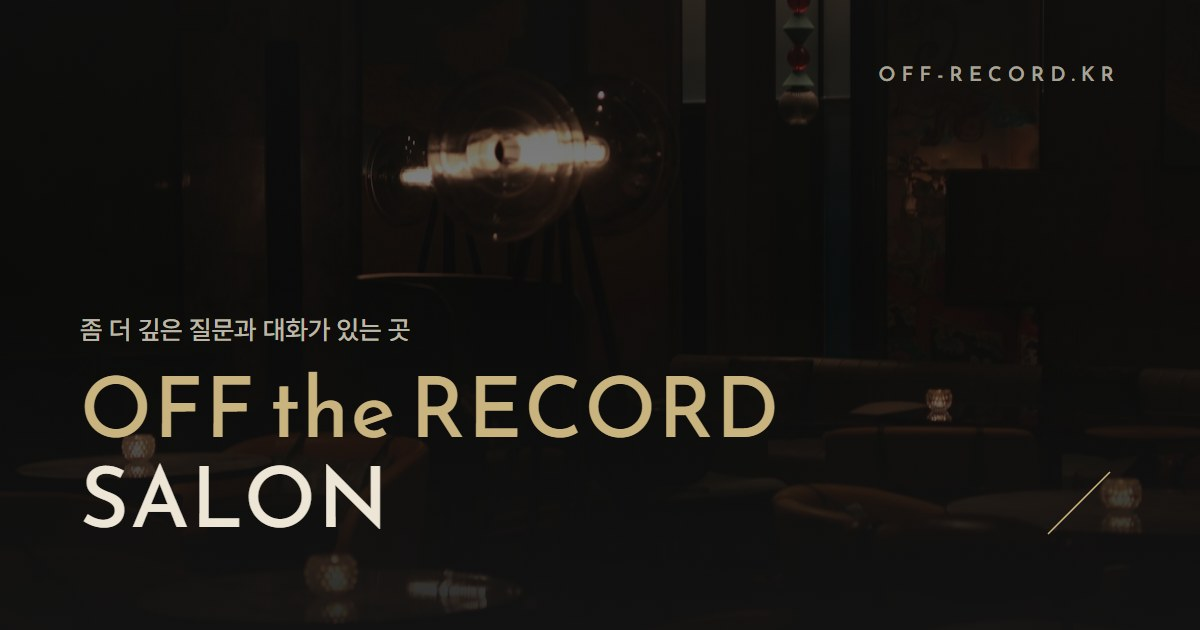
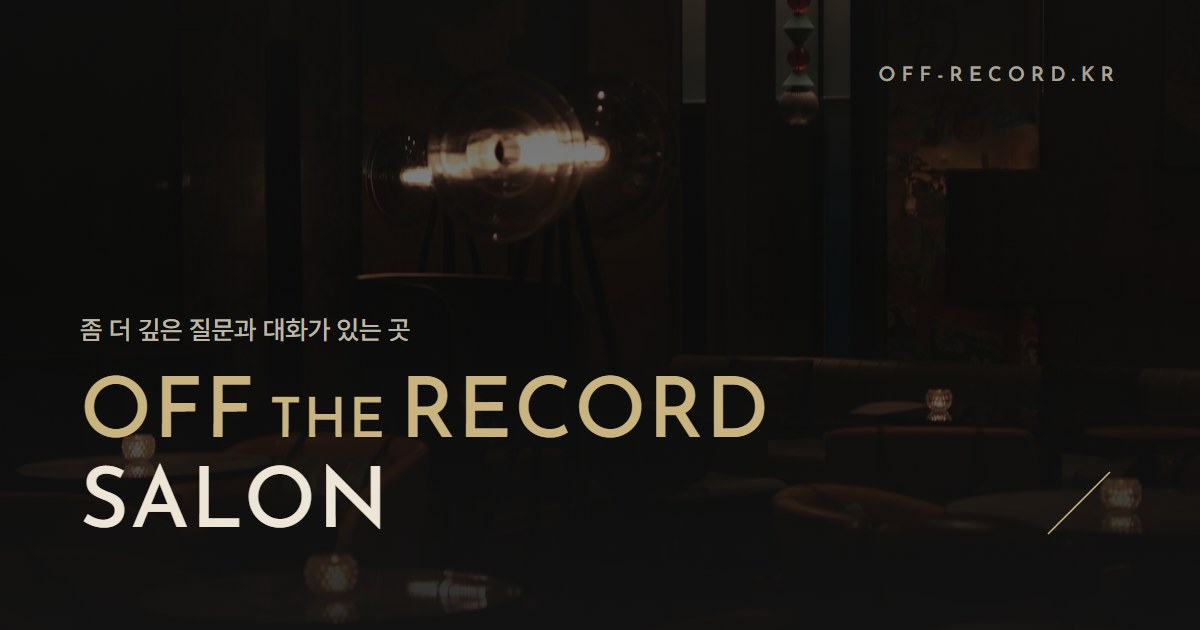
the → THE, 옆 단어의 2/3 크기

Changed region(s): [[0.2158, 0.573, 0.6475, 0.6937]]

diff --git a/index.html b/index.html
@@ -2,7 +2,7 @@
 <link rel="icon" href="/favicon.ico" sizes="any"><link rel="icon" type="image/png" href="/favicon.png"><link rel="apple-touch-icon" href="/apple-touch-icon.png">
 <title>오프레코드 살롱</title>
 <meta name="description" content="좀 더 깊은 질문과 대화가 있는 곳. 서로 다른 분야의 리더들이 질문을 꺼내고 경험을 나누는 프라이빗 리더십 살롱.">
-<meta property="og:type" content="website"><meta property="og:site_name" content="OFF the RECORD SALON"><meta property="og:url" content="https://off-record.kr/"><meta property="og:title" content="오프레코드 살롱"><meta name="twitter:title" content="오프레코드 살롱"><meta property="og:image" content="https://off-record.kr/og.jpg"><meta property="og:image:width" content="1200"><meta property="og:image:height" content="630"><meta name="twitter:card" content="summary_large_image"><meta name="twitter:image" content="https://off-record.kr/og.jpg"><meta property="og:description" content="좀 더 깊은 질문과 대화가 있는 곳">
+<meta property="og:type" content="website"><meta property="og:site_name" content="OFF THE RECORD SALON"><meta property="og:url" content="https://off-record.kr/"><meta property="og:title" content="오프레코드 살롱"><meta name="twitter:title" content="오프레코드 살롱"><meta property="og:image" content="https://off-record.kr/og.jpg"><meta property="og:image:width" content="1200"><meta property="og:image:height" content="630"><meta name="twitter:card" content="summary_large_image"><meta name="twitter:image" content="https://off-record.kr/og.jpg"><meta property="og:description" content="좀 더 깊은 질문과 대화가 있는 곳">
 <link href="https://fonts.googleapis.com/css2?family=Inter+Tight:ital,wght@0,300;0,400;0,500;0,600;0,700;1,400&family=Anton&family=Allura&family=Jost:wght@300;400&family=Josefin+Sans:wght@500;600&display=swap" rel="stylesheet">
 <link href="https://cdn.jsdelivr.net/gh/orioncactus/pretendard@v1.3.9/dist/web/static/pretendard.min.css" rel="stylesheet">
 <style>
@@ -525,7 +525,7 @@ body::after{display:none}
 @media(max-width:900px){.who-grid{grid-template-columns:repeat(2,1fr)}}
 @media(max-width:600px){.who-card{padding:1.25rem 1.1rem 1.4rem}.who-card b{font-size:1.7rem}}
 
-/* 표기: OFF the RECORD SALON (대소문자 그대로) */
+/* 표기: OFF THE RECORD SALON (대소문자 그대로) */
 .nav-logo-text,.hero-wordmark,.lg,.hprev-text b,.sub-h.brand{text-transform:none!important}
 
 
@@ -533,10 +533,13 @@ body::after{display:none}
 
 /* 로고 간격 (최종): 글자 .02em · 단어 -.18em */
 .hero-wordmark,.nav-logo-text,.sub-h.brand{letter-spacing:.02em!important;word-spacing:-.18em!important}
+
+/* THE: 옆 단어의 2/3 크기 */
+.the{font-size:.66em}
 </style></head><body>
 
 <nav class="nav" id="nav">
-  <a href="#home" class="nav-logo"><span class="nav-logo-text">OFF&nbsp;the&nbsp;RECORD SALON</span></a>
+  <a href="#home" class="nav-logo"><span class="nav-logo-text">OFF&nbsp;<span class="the">THE</span>&nbsp;RECORD SALON</span></a>
   <ul class="nav-links" id="navLinks">
     <li><a href="#about">About</a></li>
     <li><a href="#lineup">Line-up</a></li>
@@ -555,7 +558,7 @@ body::after{display:none}
   <div class="hero-media" id="heroMedia" aria-hidden="true"></div>
   <div class="hero-bottom">
     <p class="hero-sub">좀 더 깊은 질문과 대화가 있는 곳<small>오프레코드 살롱</small></p>
-    <h1 class="hero-wordmark"><span class="gold-txt">OFF&nbsp;the&nbsp;RECORD</span><br>SALON</h1>
+    <h1 class="hero-wordmark"><span class="gold-txt">OFF&nbsp;<span class="the">THE</span>&nbsp;RECORD</span><br>SALON</h1>
   </div>
 </section>
 
@@ -566,7 +569,7 @@ body::after{display:none}
     <h2 class="title">더 나은 곳으로 가기 위해,<span>우리는 묻고, 듣고, 나눕니다.</span></h2>
   </div>
   <div class="reveal">
-    <p class="about-lead">OFF&nbsp;the&nbsp;RECORD SALON은 서로 다른 분야에서 중요한 결정을 내리는 리더들이 한자리에 모여, 자신의 질문을 꺼내고 서로의 경험에서 새로운 관점을 얻는 프라이빗 리더십 살롱입니다.</p>
+    <p class="about-lead">OFF&nbsp;<span class="the">THE</span>&nbsp;RECORD SALON은 서로 다른 분야에서 중요한 결정을 내리는 리더들이 한자리에 모여, 자신의 질문을 꺼내고 서로의 경험에서 새로운 관점을 얻는 프라이빗 리더십 살롱입니다.</p>
     <p class="about-lead">공개적인 자리에서는 꺼내기 어려운 질문과 이야기가 있습니다. 우리는 기록되지 않는 진솔한 대화가 더 나은 선택과 더 넓은 시야로 이어진다고 믿습니다.</p>
   </div>
   <div class="about-items reveal">
@@ -601,7 +604,7 @@ body::after{display:none}
       <ul><li>연사가 준비한 이야기</li><li>청중은 일방적으로 청취</li><li>질문은 마지막 Q&amp;A에 일부</li></ul>
     </div>
     <div class="concept-card dark">
-      <div class="sub-h brand">OFF&nbsp;the&nbsp;RECORD SALON</div>
+      <div class="sub-h brand">OFF&nbsp;<span class="the">THE</span>&nbsp;RECORD SALON</div>
       <h3>질문에서 시작하는 대화</h3>
       <ul><li>참가자의 실제 고민과 질문을 사전에 수집</li><li>질문을 바탕으로 Host가 이야기를 준비</li><li>현장에서 Moderator와 참가자가 질문을 이어감</li></ul>
     </div>
@@ -713,7 +716,7 @@ body::after{display:none}
   <div class="eyebrow reveal">FAQ</div>
   <h2 class="title reveal">자주 묻는 질문</h2>
   <div class="faq-list reveal">
-    <div class="faq-item"><button type="button" class="faq-q" aria-expanded="false">'오프레코드'는 어떤 의미인가요?</button><div class="faq-a">오프레코드(OFF&nbsp;the&nbsp;RECORD)는 비공개 발언이라는 뜻입니다. Salon에서 오간 이야기는 외부에 기록하거나 공개하지 않습니다. Host와 참가자 모두 솔직하게 이야기할 수 있도록 하기 위한 원칙입니다.</div></div>
+    <div class="faq-item"><button type="button" class="faq-q" aria-expanded="false">'오프레코드'는 어떤 의미인가요?</button><div class="faq-a">오프레코드(OFF&nbsp;<span class="the">THE</span>&nbsp;RECORD)는 비공개 발언이라는 뜻입니다. Salon에서 오간 이야기는 외부에 기록하거나 공개하지 않습니다. Host와 참가자 모두 솔직하게 이야기할 수 있도록 하기 위한 원칙입니다.</div></div>
     <div class="faq-item"><button type="button" class="faq-q" aria-expanded="false">누구나 참가할 수 있나요?</button><div class="faq-a">초대를 받은 분만 참가할 수 있습니다. 회차당 18명 내외의 소수 정원으로 운영됩니다.</div></div>
     <div class="faq-item"><button type="button" class="faq-q" aria-expanded="false">사전 질문은 꼭 써야 하나요?</button><div class="faq-a">네. 오프레코드 살롱은 참가자의 질문에서 시작하는 살롱입니다. 사전 질문은 Host의 이야기와 당일 대화 구성에 반영됩니다.</div></div>
     <div class="faq-item"><button type="button" class="faq-q" aria-expanded="false">1회권은 없나요?</button><div class="faq-a">Salon 01 모집은 네 번을 모두 함께하는 Full Cycle Pass(한정 수량)로 진행합니다. 1회권은 Full Cycle 마감 후 잔여석에 한해 회차별로 별도 오픈됩니다.</div></div>
@@ -721,11 +724,11 @@ body::after{display:none}
 </div></section>
 
 <section class="closing">
-  <h2 class="reveal">깊은 질의와 현장의 경험이 만나는 자리,<br><span>OFF&nbsp;the&nbsp;RECORD SALON</span>에서 만나요.</h2>
+  <h2 class="reveal">깊은 질의와 현장의 경험이 만나는 자리,<br><span>OFF&nbsp;<span class="the">THE</span>&nbsp;RECORD SALON</span>에서 만나요.</h2>
   <p class="reveal">SEE YOU AT SALON 01 · NOVEMBER 2026</p>
   <a href="#apply" class="btn light reveal">참가 신청하기 →</a>
 </section>
-<footer><div class="ft"><p>© 2026 OFF&nbsp;the&nbsp;RECORD SALON · Hosted by 리피움</p><a href="admin.html" class="admin-btn" title="관리자">관리</a></div></footer>
+<footer><div class="ft"><p>© 2026 OFF&nbsp;<span class="the">THE</span>&nbsp;RECORD SALON · Hosted by 리피움</p><a href="admin.html" class="admin-btn" title="관리자">관리</a></div></footer>
 
 <div class="sticky-cta" id="stickyCta"><div class="in"><div class="txt"><small>SALON 01 · NOV 2026</small><span id="stickyTxt">초대받은 분만 신청할 수 있습니다</span></div><a href="#apply" class="btn ac">참가 신청 →</a></div></div>
 <div class="lp" id="lp"><svg width="80" height="80" viewBox="0 0 80 80"><circle cx="40" cy="40" r="34" stroke="rgba(255,255,255,.2)"/><circle id="lpRing" cx="40" cy="40" r="34" stroke="#fff" stroke-dasharray="213.6" stroke-dashoffset="213.6" transform="rotate(-90 40 40)"/></svg></div>

diff --git a/admin.html b/admin.html
@@ -1,9 +1,9 @@
 <!DOCTYPE html><html lang="ko"><head><meta charset="UTF-8"><meta name="viewport" content="width=device-width,initial-scale=1.0">
 <link rel="icon" href="/favicon.ico" sizes="any"><link rel="icon" type="image/png" href="/favicon.png"><link rel="apple-touch-icon" href="/apple-touch-icon.png">
-<title>관리자 — OFF the RECORD SALON</title>
+<title>관리자 — OFF THE RECORD SALON</title>
 <meta name="robots" content="noindex">
 <meta name="description" content="좀 더 깊은 질문과 대화가 있는 곳. 서로 다른 분야의 리더들이 질문을 꺼내고 경험을 나누는 프라이빗 리더십 살롱.">
-<meta property="og:title" content="OFF the RECORD SALON"><meta property="og:description" content="좀 더 깊은 질문과 대화가 있는 곳">
+<meta property="og:title" content="OFF THE RECORD SALON"><meta property="og:description" content="좀 더 깊은 질문과 대화가 있는 곳">
 <link href="https://fonts.googleapis.com/css2?family=Inter+Tight:ital,wght@0,300;0,400;0,500;0,600;0,700;1,400&family=Anton&family=Allura&family=Jost:wght@300;400&family=Josefin+Sans:wght@500;600&display=swap" rel="stylesheet">
 <link href="https://cdn.jsdelivr.net/gh/orioncactus/pretendard@v1.3.9/dist/web/static/pretendard.min.css" rel="stylesheet">
 <style>
@@ -368,7 +368,7 @@ footer{background:var(--dk)}footer p{color:rgba(237,230,214,.35)}
 .hprev-text b{font-family:'Josefin Sans',sans-serif!important;font-weight:500!important}
 .lg{white-space:nowrap}
 
-/* 표기: OFF the RECORD SALON (대소문자 그대로) */
+/* 표기: OFF THE RECORD SALON (대소문자 그대로) */
 .nav-logo-text,.hero-wordmark,.lg,.hprev-text b,.sub-h.brand{text-transform:none!important}
 
 
@@ -376,14 +376,17 @@ footer{background:var(--dk)}footer p{color:rgba(237,230,214,.35)}
 
 /* 로고 간격 (최종): 글자 .02em · 단어 -.18em */
 .lg,.hprev-text b{letter-spacing:.02em!important;word-spacing:-.18em!important}
+
+/* THE: 옆 단어의 2/3 크기 */
+.the{font-size:.66em}
 </style></head><body>
 <div class="gate" id="gate"><div class="gate-box">
-  <h2><span class="lg">OFF&nbsp;the&nbsp;RECORD SALON</span><small>ADMIN</small></h2>
+  <h2><span class="lg">OFF&nbsp;<span class="the">THE</span>&nbsp;RECORD SALON</span><small>ADMIN</small></h2>
   <input type="password" id="gatePw" placeholder="비밀번호" onkeydown="if(event.key==='Enter')login()">
   <button class="btn" style="width:100%" onclick="login()">입장하기</button>
   <p id="gateMsg"></p>
 </div></div>
-<header class="admin-bar"><span><b class="lg">OFF&nbsp;the&nbsp;RECORD SALON</b><small>ADMIN</small></span>
+<header class="admin-bar"><span><b class="lg">OFF&nbsp;<span class="the">THE</span>&nbsp;RECORD SALON</b><small>ADMIN</small></span>
 <nav class="tabs" id="tabs">
   <button data-tab="notes" class="on">회의록</button><button data-tab="apps">신청</button><button data-tab="site">홈페이지</button><button data-tab="schedule">일정</button><button data-tab="speakers">연사</button><button data-tab="fees">사례비</button><button data-tab="actions">Next Action</button><button data-tab="decisions">결정 기록</button><button data-tab="plan">기획 자료</button>
 </nav><a href="index.html">← 사이트로</a></header>
@@ -416,7 +419,7 @@ footer{background:var(--dk)}footer p{color:rgba(237,230,214,.35)}
     </div>
     <div class="site-card">
       <h3>미리보기</h3>
-      <div class="hprev" id="hPrev"><div class="hprev-media" id="hPrevMedia"></div><div class="hprev-text"><small>좀 더 깊은 질문과 대화가 있는 곳</small><b>OFF&nbsp;the&nbsp;RECORD SALON</b></div></div>
+      <div class="hprev" id="hPrev"><div class="hprev-media" id="hPrevMedia"></div><div class="hprev-text"><small>좀 더 깊은 질문과 대화가 있는 곳</small><b>OFF&nbsp;<span class="the">THE</span>&nbsp;RECORD SALON</b></div></div>
       <p class="note" style="margin-top:.75rem">실제 화면 비율과 다를 수 있습니다. 저장 후 <a href="index.html" target="_blank" style="color:var(--ac)">홈페이지 새 창</a>에서 확인하세요.</p>
     </div>
   </div>
@@ -464,7 +467,7 @@ footer{background:var(--dk)}footer p{color:rgba(237,230,214,.35)}
   <div class="plan-list" id="v-plan"></div>
 </div></section></div>
 <div class="modal" id="modal" onclick="if(event.target===this)closeModal()"><div class="mn-editor" id="mForm"></div></div>
-<footer><p>© 2026 OFF&nbsp;the&nbsp;RECORD SALON · REPIUM LAB · 내부 공유용</p></footer>
+<footer><p>© 2026 OFF&nbsp;<span class="the">THE</span>&nbsp;RECORD SALON · REPIUM LAB · 내부 공유용</p></footer>
 <script>
 const SU='https://dvlrzbckneucpvlacdll.supabase.co';
 const SK='eyJhbGciOiJIUzI1NiIsInR5cCI6IkpXVCJ9.eyJpc3MiOiJzdXBhYmFzZSIsInJlZiI6ImR2bHJ6YmNrbmV1Y3B2bGFjZGxsIiwicm9sZSI6ImFub24iLCJpYXQiOjE3NzQ5ODE0OTUsImV4cCI6MjA5MDU1NzQ5NX0.ofzGfyjndiT-FAIcG9TCFtUSXsagTBYOnhsP91vx0sE';
